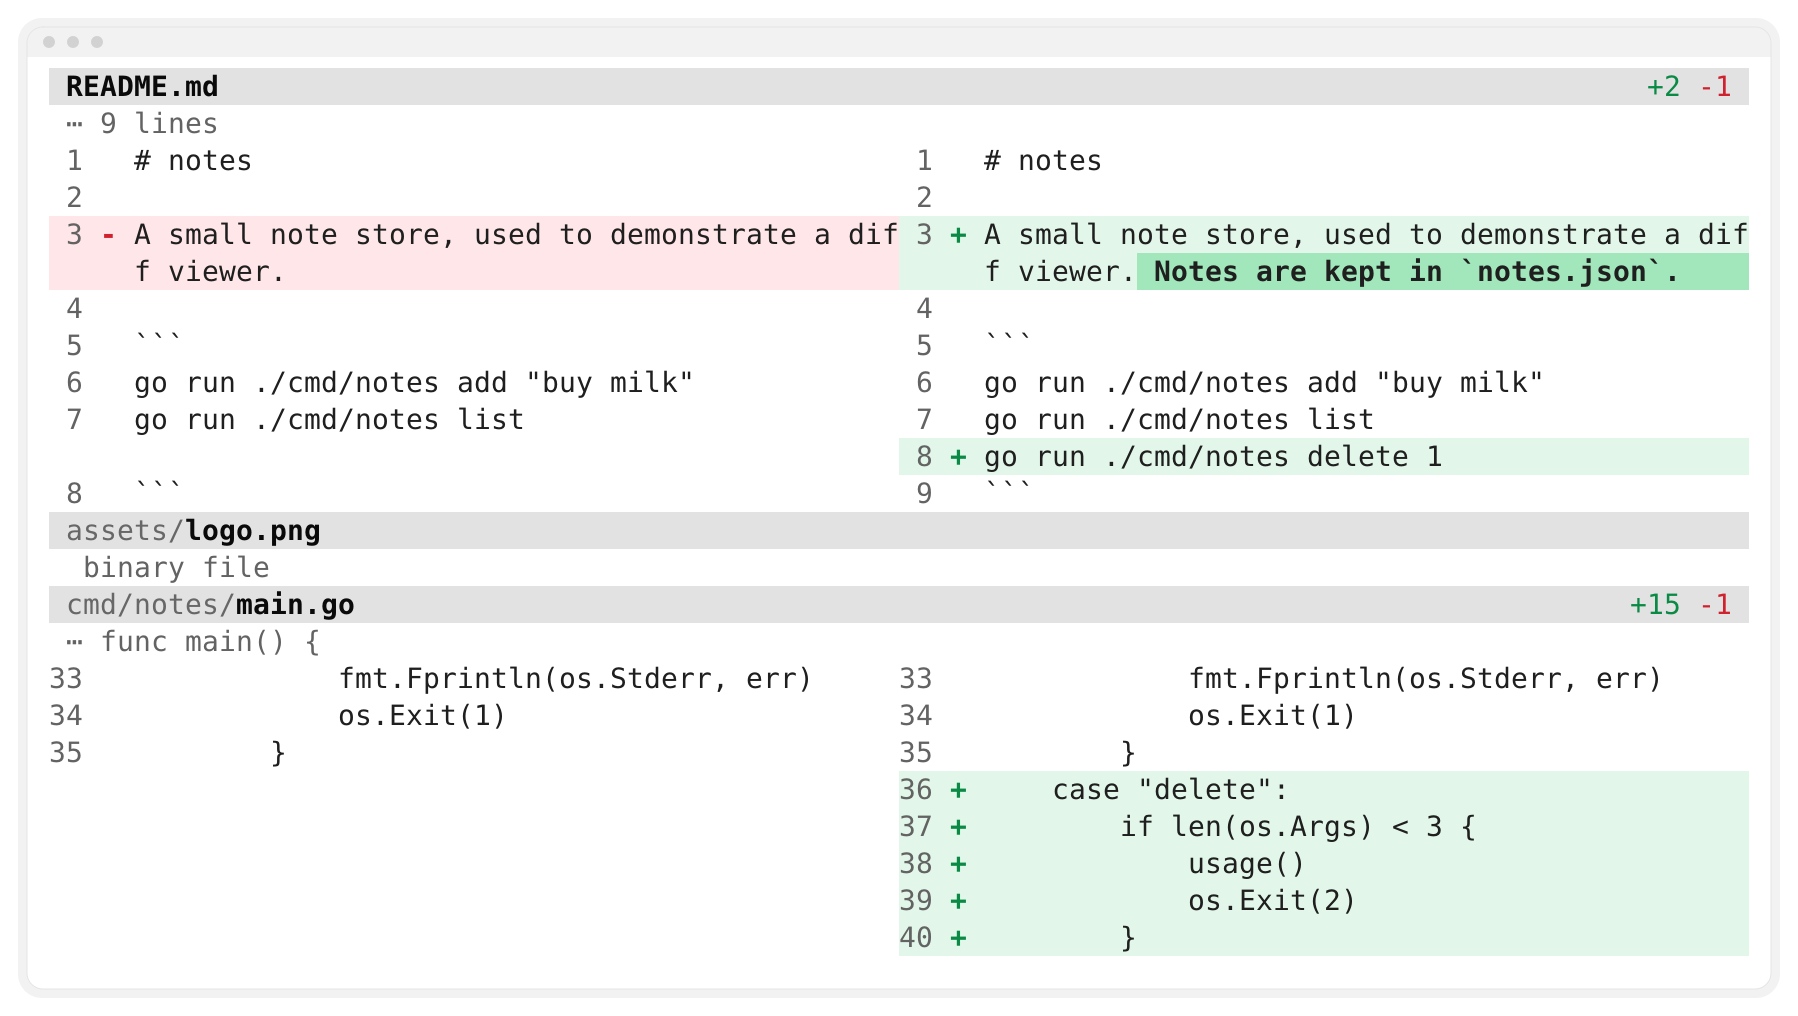
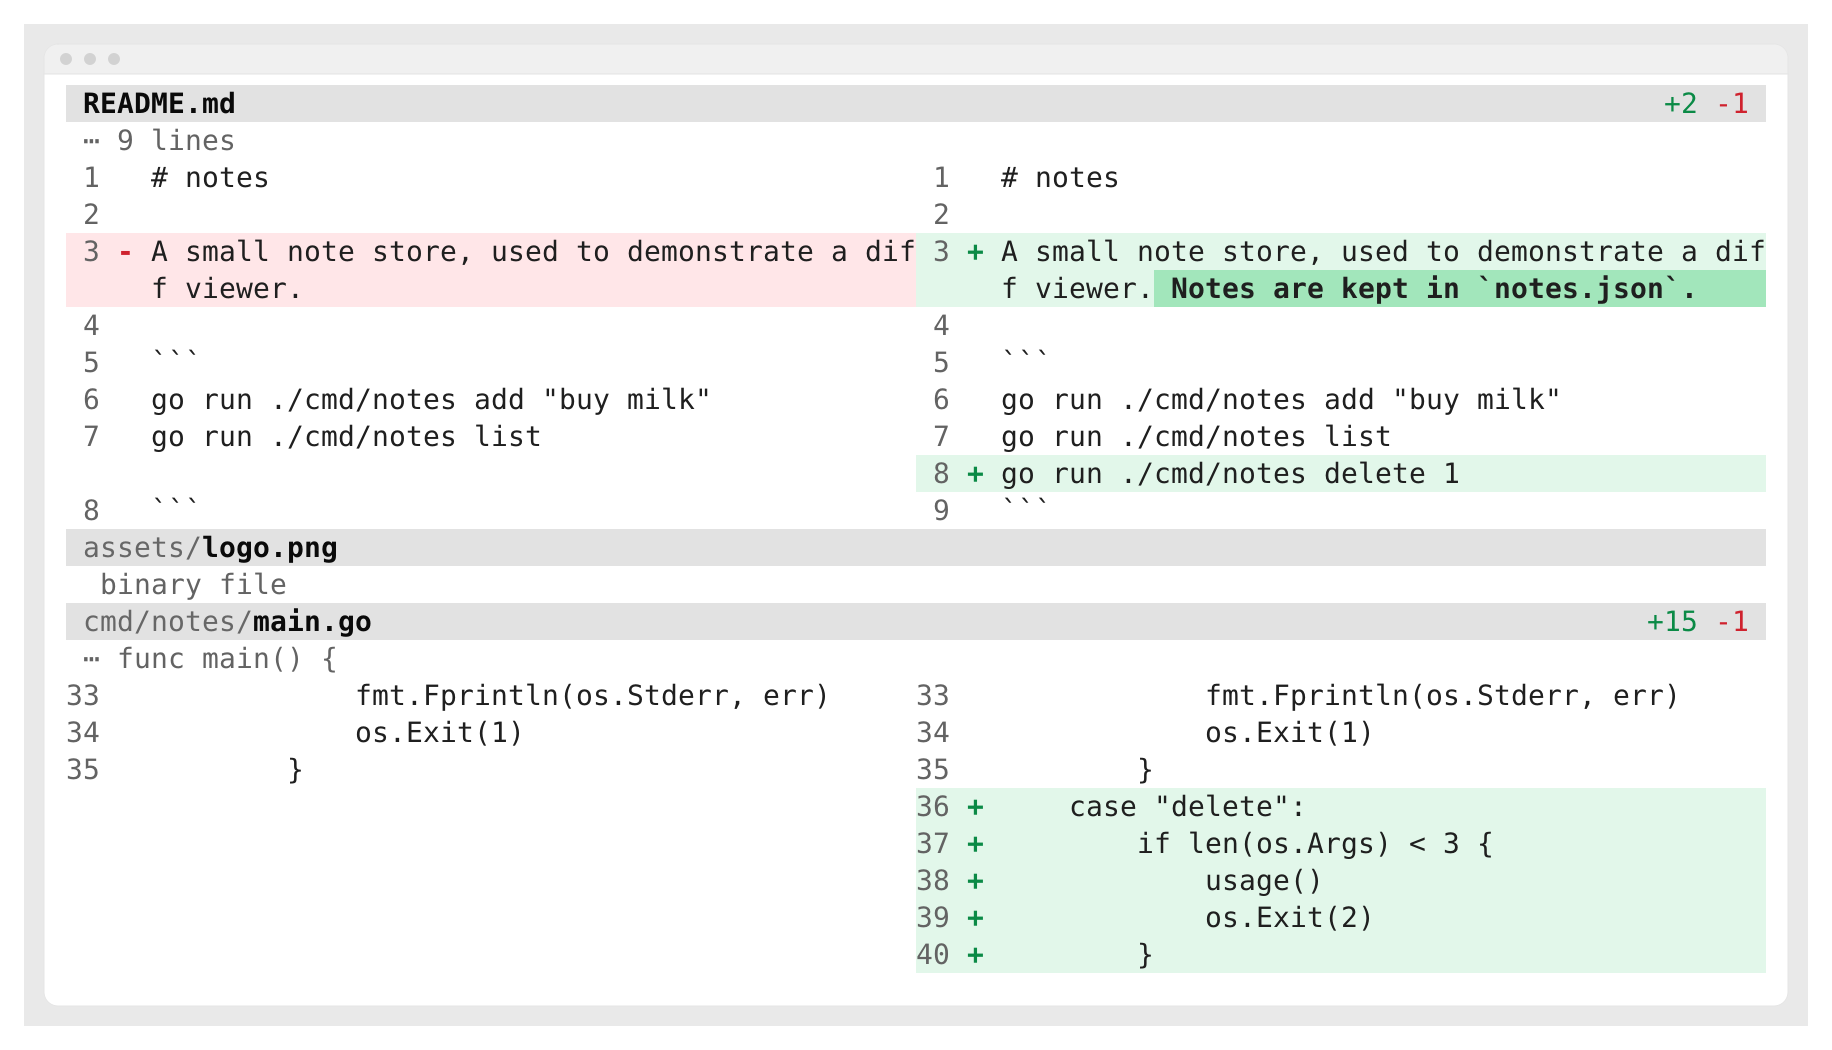
Square the mat and give the window room (#26)
The outer frame keeps its square corners, sits 20px away from the window on
every side, and the window is the only thing with a radius. The shadow is gone:
a hard offset band read as a second window, and drawing it over the surface
tinted the whole diff grey.

diff --git a/AGENTS.md b/AGENTS.md
@@ -33,7 +33,8 @@
   and weekly dependency updates. `.github/rulesets/main.json` is the branch protection source of
   truth; if you rename the `Required` job, change both.
 - `assets/header.png`: the README screenshot, a capture of the real interface rendered with
-  DejaVu Sans Mono in a nested rounded frame. Re-shoot it when the visual design changes.
+  DejaVu Sans Mono: a square mat, a 20px gap and one rounded window. Re-shoot it when the visual
+  design changes.
 - `scripts/demo.sh`: builds a demo repository. The default is a realistic branch (a feature, tests,
   a rename, a deletion, a doc update) for judging the experience; `--edges` builds the awkward
   shapes (binary, symlink, CRLF, non-ASCII paths, mode-only) for changing the renderer. The edge
